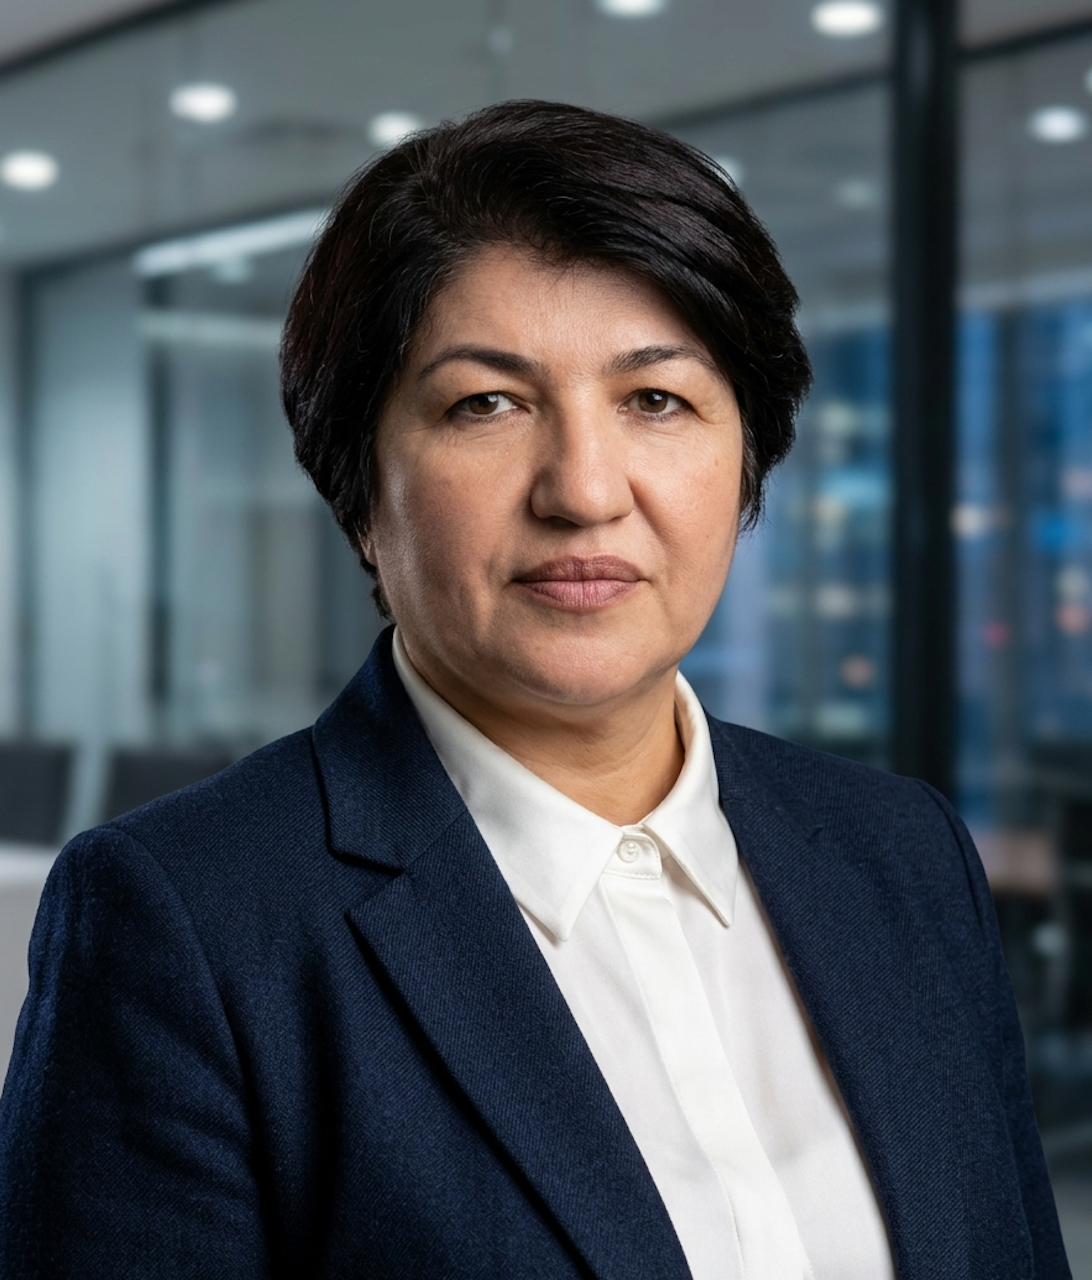
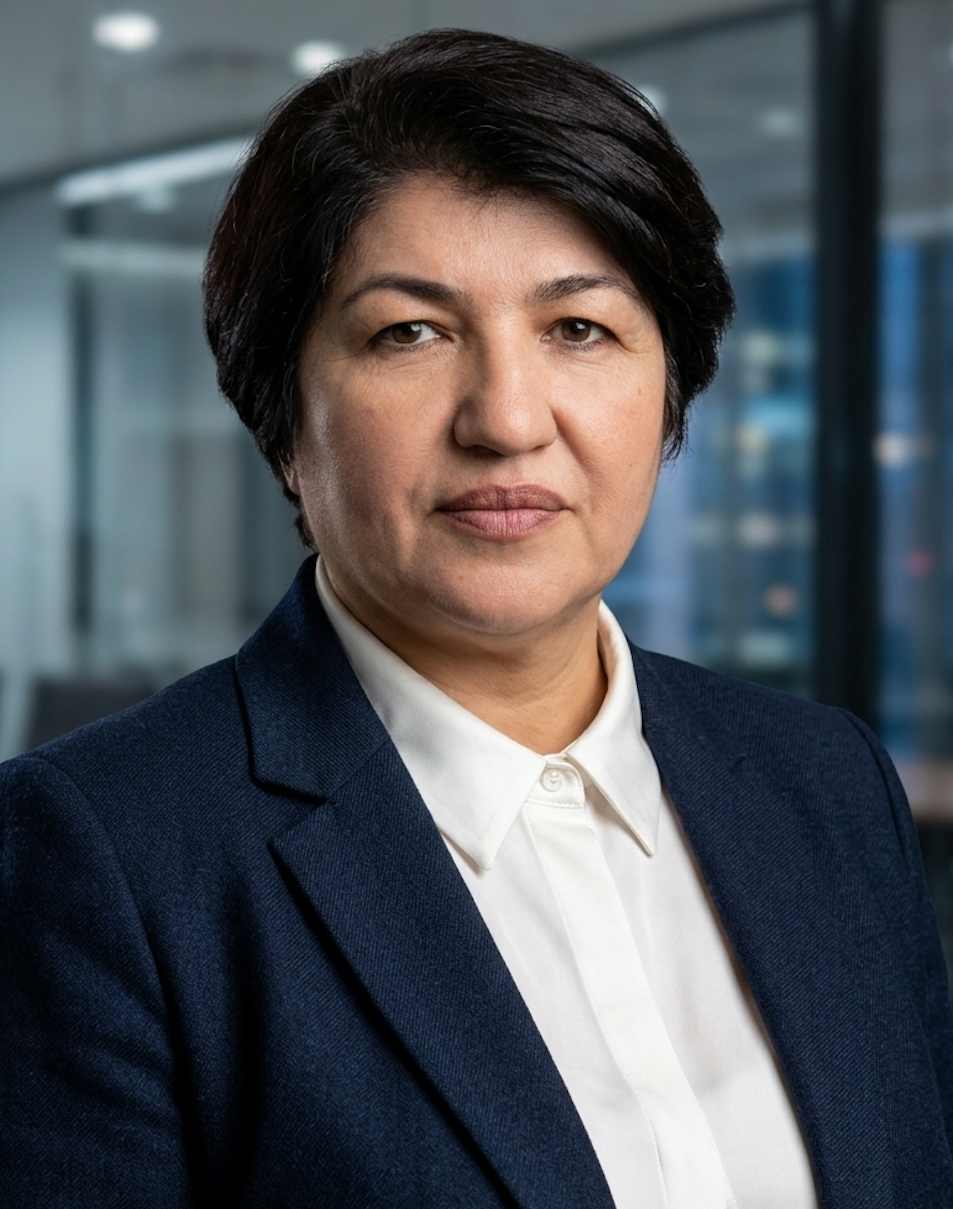
Update team photos and footer navigation

diff --git a/src/i18n/translations.js b/src/i18n/translations.js
@@ -13,9 +13,9 @@ const resources = {
       nav: {
         home: "Home",
         about: "About Us",
-        services: "Services",
-        projects: "Projects",
-        experts: "Experts",
+       services: "Services",
+projects: "Projects",
+experts: "Experts",
         news: "News",
         contact: "Contact",
         start: "Start a Conversation",
@@ -673,8 +673,10 @@ ctaSectionButton: "Contact Us",
         company: "Company",
         home: "Home",
         about: "About Us",
-        services: "Services",
-        news: "News",
+       services: "Services",
+projects: "Projects",
+experts: "Experts",
+news: "News",
         contact: "Contact Us",
         expertise: "Expertise",
         waterSanitation: "Water & Sanitation",
@@ -1352,8 +1354,10 @@ formSuccess:
         company: "Компания",
         home: "Главная",
         about: "О нас",
-        services: "Услуги",
-        news: "Новости",
+       services: "Услуги",
+projects: "Проекты",
+experts: "Эксперты",
+news: "Новости",
         contact: "Контакты",
         expertise: "Экспертиза",
         waterSanitation: "Водоснабжение и санитария",
@@ -2036,8 +2040,10 @@ formSuccess:
         company: "Ширкат",
         home: "Асосӣ",
         about: "Дар бораи мо",
-        services: "Хизматрасониҳо",
-        news: "Ахбор",
+       services: "Хизматрасониҳо",
+projects: "Лоиҳаҳо",
+experts: "Мутахассисон",
+news: "Ахбор",
         contact: "Тамос",
         expertise: "Тахассус",
         waterSanitation: "Обтаъминкунӣ ва санитария",

diff --git a/src/pages/Team.jsx b/src/pages/Team.jsx
@@ -12,14 +12,14 @@ function Team() {
     {
       number: "01",
       name: "Abdulhanon Karimov",
-      image: "/images/national team pics/abdulhanon-karimov.png",
+     image: "/images/national%20team%20pics/Abdulhanon-Karimov.png",
       position: t("team.nationalExpert1Position"),
       experience: t("team.nationalExpert1Experience"),
     },
     {
       number: "02",
       name: "Amirshoev Siyovush",
-      image: "/images/national team pics/amirshoev-siyovush.jpg",
+      image: "/images/national%20team%20pics/amirshoev-siyovush.jpg",
       position: t("team.nationalExpert2Position"),
       experience: t("team.nationalExpert2Experience"),
     },
@@ -54,7 +54,7 @@ function Team() {
     {
       number: "07",
       name: "Nozanin Khudoieva",
-      image: "/images/national team pics/nozanin-khudoieva.png",
+    image: "/images/national%20team%20pics/nozanin-khudoieva.png",
       position: t("team.nationalExpert7Position"),
       experience: t("team.nationalExpert7Experience"),
     },
@@ -68,7 +68,7 @@ function Team() {
     {
       number: "09",
       name: "Shuhrat Jalilov",
-      image: "/images/national team pics/shuhrat-jalilov.jpg",
+     image: "/images/national%20team%20pics/shuhrat-jalilov.jpeg",
       position: t("team.nationalExpert9Position"),
       experience: t("team.nationalExpert9Experience"),
     },
@@ -89,7 +89,7 @@ function Team() {
     {
       number: "12",
       name: "Zebo Nazarova",
-      image: "/images/national team pics/zebo-nazarova.jpg",
+   image: "/images/national%20team%20pics/zebo-nazarova.jpg",
       position: t("team.nationalExpert12Position"),
       experience: t("team.nationalExpert12Experience"),
     },

diff --git a/src/components/Footer.jsx b/src/components/Footer.jsx
@@ -24,14 +24,18 @@ function Footer() {
           </div>
         </div>
 
-        <div className="footer-column">
-          <h3>{t("footer.company")}</h3>
-          <a href="/">{t("footer.home")}</a>
-          <a href="/about">{t("footer.about")}</a>
-          <a href="/services">{t("footer.services")}</a>
-          <a href="/news">{t("footer.news")}</a>
-          <a href="/contact">{t("footer.contact")}</a>
-        </div>
+     
+<div className="footer-column">
+  <h3>{t("footer.company")}</h3>
+  <a href="/">{t("footer.home")}</a>
+  <a href="/about">{t("footer.about")}</a>
+  <a href="/services">{t("footer.services")}</a>
+  <a href="/projects">{t("footer.projects")}</a>
+  <a href="/team">{t("footer.experts")}</a>
+  <a href="/news">{t("footer.news")}</a>
+  <a href="/contact">{t("footer.contact")}</a>
+</div>
+
 
         <div className="footer-column">
           <h3>{t("footer.expertise")}</h3>
